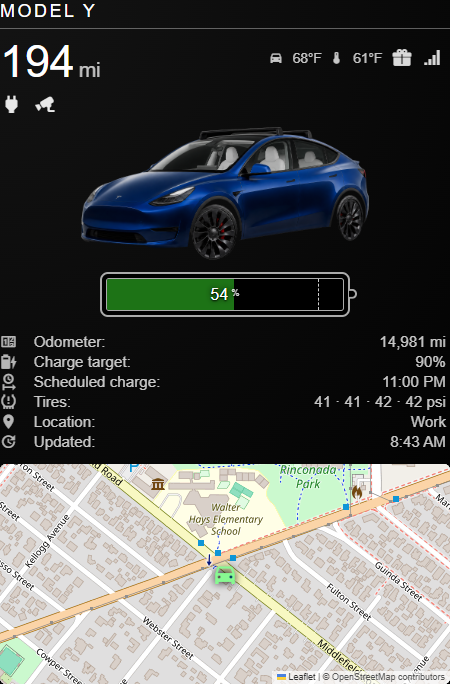
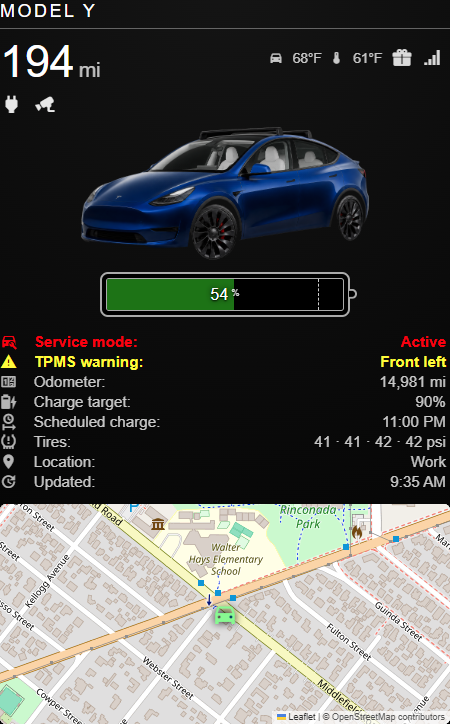
Added TPMS and Service_Mode warnings

Changed region(s): [[0.0, 0.1535, 1.0, 1.0], [0.0, 0.0, 1.0, 0.1842], [0.0, 0.9825, 0.0311, 1.0]]

diff --git a/MMM-TeslamateWithLocation.js b/MMM-TeslamateWithLocation.js
@@ -54,6 +54,8 @@ Module.register("MMM-TeslamateWithLocation", {
       temperatureIcons: { topMargin: 0 },
       temperatures: { visible: true },
       tpms: { visible: true },
+      tpmsWarnings: { visible: true },
+      serviceMode: { visible: true },
       speed: { visible: true },
       geofence: { visible: true }
     },
@@ -437,6 +439,14 @@ Module.register("MMM-TeslamateWithLocation", {
     list.className = "tml-metrics";
     this.applyMetricStyles(list);
 
+    if (this.config.displayOptions?.serviceMode?.visible !== false && v.serviceMode) {
+      this.addMetric(list, "mdi-car-wrench", "Service mode", "Active", { alert: true, color: "red" });
+    }
+
+    if (this.config.displayOptions?.tpmsWarnings?.visible !== false && v.tpmsSoftWarningText) {
+      this.addMetric(list, "mdi-alert", "TPMS warning", v.tpmsSoftWarningText, { alert: true, color: "yellow" });
+    }
+
     if (v.charging && this.config.displayOptions?.chargeAdded?.visible !== false) {
       if (v.chargeEnergyAdded !== null && v.chargeEnergyAdded !== undefined) {
         this.addMetric(list, "mdi-lightning-bolt", "Charge added", `${Number(v.chargeEnergyAdded).toFixed(1)} kWh`);
@@ -487,11 +497,21 @@ Module.register("MMM-TeslamateWithLocation", {
 
   addMetric(list, icon, name, value, options) {
     const li = document.createElement("li");
-    li.className = options?.stale ? "tml-metric is-stale" : "tml-metric";
+    const classes = ["tml-metric"];
+    if (options?.stale) {
+      classes.push("is-stale");
+    }
+    if (options?.alert) {
+      classes.push("is-alert");
+    }
+    li.className = classes.join(" ");
     if (options?.title) {
       li.title = options.title;
     }
     li.innerHTML = `<span class="icon mdi ${icon}"></span><span class="name">${this.escape(name)}</span><span class="value">${this.escape(value)}</span>`;
+    if (options?.color) {
+      li.style.color = options.color;
+    }
     list.appendChild(li);
   },
 

diff --git a/preview/index.html b/preview/index.html
@@ -88,6 +88,8 @@
       sentry: true,
       updateAvailable: true,
       scheduledChargeStart: "23:00",
+      serviceMode: true,
+      tpmsSoftWarningText: "Front left",
       geofence: "Work",
       lastUpdated: new Date().toISOString()
     };
@@ -165,6 +167,12 @@
 
     function metrics(v) {
       const rows = [];
+      if (v.serviceMode) {
+        rows.push(["mdi-car-wrench", "Service mode", "Active", { alert: true, color: "red" }]);
+      }
+      if (v.tpmsSoftWarningText) {
+        rows.push(["mdi-alert", "TPMS warning", v.tpmsSoftWarningText, { alert: true, color: "yellow" }]);
+      }
       if (v.charging) {
         rows.push(["mdi-lightning-bolt", "Charge added", v.chargeEnergyAdded.toFixed(1) + " kWh"]);
         rows.push(["mdi-clock-outline", "Time to " + v.chargeLimitSoc + "%", etaHours(v.timeToFullCharge)]);
@@ -182,9 +190,11 @@
       rows.push(["mdi-update", "Updated", new Date(v.lastUpdated).toLocaleTimeString("en-US", { hour: "numeric", minute: "2-digit", hour12: true })]);
       const ul = document.createElement("ul");
       ul.className = "tml-metrics";
-      ul.innerHTML = rows.map(([icon, name, value]) =>
-        `<li class="tml-metric"><span class="icon mdi ${icon}"></span><span class="name">${name}</span><span class="value">${value}</span></li>`
-      ).join("");
+      ul.innerHTML = rows.map(([icon, name, value, opts]) => {
+        const cls = opts?.alert ? "tml-metric is-alert" : "tml-metric";
+        const style = opts?.color ? ` style="color:${opts.color}"` : "";
+        return `<li class="${cls}"${style}><span class="icon mdi ${icon}"></span><span class="name">${name}</span><span class="value">${value}</span></li>`;
+      }).join("");
       return ul;
     }
 

diff --git a/lib/vehicle.js b/lib/vehicle.js
@@ -87,6 +87,11 @@ function emptyVehicle() {
     tpmsFr: null,
     tpmsRl: null,
     tpmsRr: null,
+    tpmsSoftFl: null,
+    tpmsSoftFr: null,
+    tpmsSoftRl: null,
+    tpmsSoftRr: null,
+    serviceMode: null,
     lastUpdated: null
   };
 }
@@ -128,6 +133,11 @@ function applyField(vehicle, key, raw) {
     case "preconditioning":
     case "pluggedIn":
     case "chargePortOpen":
+    case "tpmsSoftFl":
+    case "tpmsSoftFr":
+    case "tpmsSoftRl":
+    case "tpmsSoftRr":
+    case "serviceMode":
       vehicle[key] = asBool(raw);
       break;
     case "latitude":
@@ -202,6 +212,18 @@ function tireSet(vehicle) {
   };
 }
 
+const TPMS_SOFT_LABELS = [
+  ["tpmsSoftFl", "Front left"],
+  ["tpmsSoftFr", "Front right"],
+  ["tpmsSoftRl", "Rear left"],
+  ["tpmsSoftRr", "Rear right"]
+];
+
+function tpmsSoftWarningText(vehicle) {
+  const parts = TPMS_SOFT_LABELS.filter(([key]) => vehicle?.[key] === true).map(([, label]) => label);
+  return parts.length ? parts.join(", ") : null;
+}
+
 function presentVehicle(raw, extras) {
   const v = { ...(raw || emptyVehicle()), ...(extras || {}) };
   v.charging = isCharging(v);
@@ -210,6 +232,8 @@ function presentVehicle(raw, extras) {
   v.tires = tireSet(v);
   v.plugVoltage = liveChargerVoltage(v);
   v.plugVoltageUnit = "V";
+  v.tpmsSoftWarningText = tpmsSoftWarningText(v);
+  v.serviceMode = v.serviceMode === true;
   return v;
 }
 
@@ -222,5 +246,6 @@ module.exports = {
   isCharging,
   liveChargerVoltage,
   tireSet,
+  tpmsSoftWarningText,
   presentVehicle
 };

diff --git a/lib/vehicle.test.js b/lib/vehicle.test.js
@@ -9,8 +9,12 @@ describe("applyField", () => {
     const v = emptyVehicle();
     applyField(v, "pluggedIn", "true");
     applyField(v, "locked", "false");
+    applyField(v, "serviceMode", "true");
+    applyField(v, "tpmsSoftFl", "true");
     assert.equal(v.pluggedIn, true);
     assert.equal(v.locked, false);
+    assert.equal(v.serviceMode, true);
+    assert.equal(v.tpmsSoftFl, true);
   });
 
   it("reads location JSON as well as lat/lon topics", () => {
@@ -69,5 +73,29 @@ describe("presentVehicle", () => {
       chargerVoltage: 240
     });
     assert.equal(v.plugVoltage, null);
+  });
+
+  it("lists TPMS soft-warning corners and service mode", () => {
+    const v = presentVehicle({
+      tpmsSoftFl: true,
+      tpmsSoftFr: false,
+      tpmsSoftRl: true,
+      tpmsSoftRr: false,
+      serviceMode: true
+    });
+    assert.equal(v.tpmsSoftWarningText, "Front left, Rear left");
+    assert.equal(v.serviceMode, true);
+  });
+
+  it("omits TPMS warning text when every corner is false", () => {
+    const v = presentVehicle({
+      tpmsSoftFl: false,
+      tpmsSoftFr: false,
+      tpmsSoftRl: false,
+      tpmsSoftRr: false,
+      serviceMode: false
+    });
+    assert.equal(v.tpmsSoftWarningText, null);
+    assert.equal(v.serviceMode, false);
   });
 });

diff --git a/lib/mqtt-topics.test.js b/lib/mqtt-topics.test.js
@@ -33,6 +33,9 @@ describe("topicList", () => {
     assert.ok(topics.includes("teslamate/cars/1/longitude"));
     assert.ok(topics.includes("teslamate/cars/1/location"));
     assert.ok(topics.includes("teslamate/cars/1/tpms_pressure_fl"));
+    assert.ok(topics.includes("teslamate/cars/1/tpms_soft_warning_fl"));
+    assert.equal(parseTopic("teslamate/cars/1/service_mode").key, "serviceMode");
+    assert.ok(topics.includes("teslamate/cars/1/service_mode"));
     assert.ok(topics.includes("teslamate/cars/1/geofence"));
   });
 });

diff --git a/MMM-TeslamateWithLocation.css b/MMM-TeslamateWithLocation.css
@@ -319,6 +319,25 @@
   text-decoration: none;
 }
 
+.tml-metric.is-alert {
+  align-items: flex-start;
+  opacity: 1;
+}
+
+.tml-metric.is-alert .icon,
+.tml-metric.is-alert .name,
+.tml-metric.is-alert .value {
+  color: inherit;
+  font-weight: 700;
+  opacity: 1;
+}
+
+.tml-metric.is-alert .value {
+  white-space: normal;
+  text-align: right;
+  max-width: 70%;
+}
+
 .tml-map-wrap {
   margin-top: 12px;
   border-radius: 6px;

diff --git a/lib/mqtt-topics.js b/lib/mqtt-topics.js
@@ -50,7 +50,12 @@ const TOPIC_KEYS = {
   tpms_pressure_fl: "tpmsFl",
   tpms_pressure_fr: "tpmsFr",
   tpms_pressure_rl: "tpmsRl",
-  tpms_pressure_rr: "tpmsRr"
+  tpms_pressure_rr: "tpmsRr",
+  tpms_soft_warning_fl: "tpmsSoftFl",
+  tpms_soft_warning_fr: "tpmsSoftFr",
+  tpms_soft_warning_rl: "tpmsSoftRl",
+  tpms_soft_warning_rr: "tpmsSoftRr",
+  service_mode: "serviceMode"
 };
 
 function makeTopicPrefix(config) {

diff --git a/lib/demo-data.js b/lib/demo-data.js
@@ -86,6 +86,8 @@ const modelY = {
   frunkOpen: false,
   userPresent: false,
   updateAvailable: true,
+  serviceMode: true,
+  tpmsSoftFl: true,
   speed: 0,
   shiftState: "P",
   tpmsFl: 2.8,

diff --git a/README.md b/README.md
@@ -145,6 +145,8 @@ displayOptions: {
   temperatureIcons: { topMargin: 0 },
   temperatures: { visible: true },
   tpms: { visible: true },
+  tpmsWarnings: { visible: true },
+  serviceMode: { visible: true },
   speed: { visible: true },
   geofence: { visible: true }
 },
@@ -162,6 +164,8 @@ carImageOptions: {
 
 When `hybridView` is true the list shows Teslamate’s hybrid-view rows:
 
+- **Service mode** (red) when `service_mode` is true
+- **TPMS warning** (yellow) listing corners with `tpms_soft_warning_*` true
 - **Charge added** and **Time to {limit}%** while charging
 - **Scheduled charge** when plugged in with `scheduled_charging_start_time`
 - **Odometer**
@@ -170,6 +174,8 @@ When `hybridView` is true the list shows Teslamate’s hybrid-view rows:
 - **Location** (geofence)
 - **Speed** while `state` is `driving`
 - **Updated** (last MQTT payload)
+
+Hide the alert rows with `displayOptions.serviceMode.visible: false` or `displayOptions.tpmsWarnings.visible: false`. They are omitted when Teslamate reports false.
 
 Graphic status icons cover Teslamate’s asleep / driving / plug / lock / sentry / windows / occupant / doors / climate states. The battery cell shows usable SOC, optional cold-battery reserve, the charge-limit marker, and charger voltage only during an active charge (Teslamate’s 1–2V disconnected sentinel is ignored).
 
